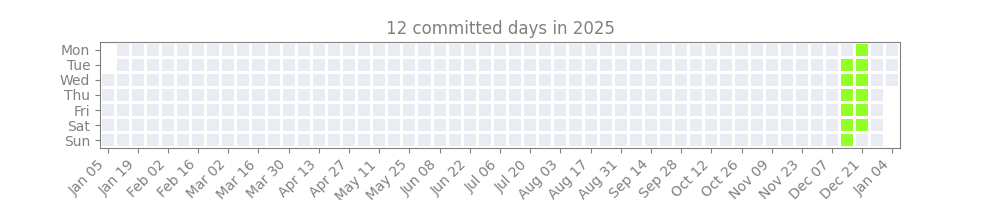
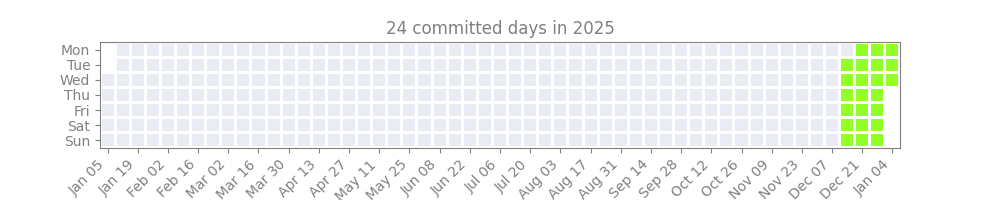
auto save

Changed region(s): [[0.837, 0.21, 0.899, 0.75], [0.372, 0.09, 0.403, 0.18]]

diff --git a/README.md b/README.md
@@ -1,6 +1,7 @@
 # dlc
 
-![heatmap](yearly_heatmaps/2025.png?ts=10022025) 
+![2026](yearly_heatmaps/2026.png?ts=10022025) 
+![2025](yearly_heatmaps/2025.png?ts=10022025) 
 
 * TODO: Move ohhh here. 
 * Maximum subarray given $\{a_j\}$: 
